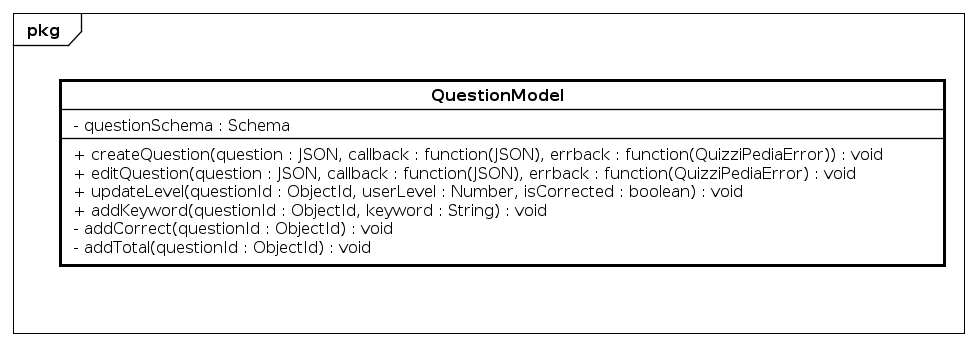
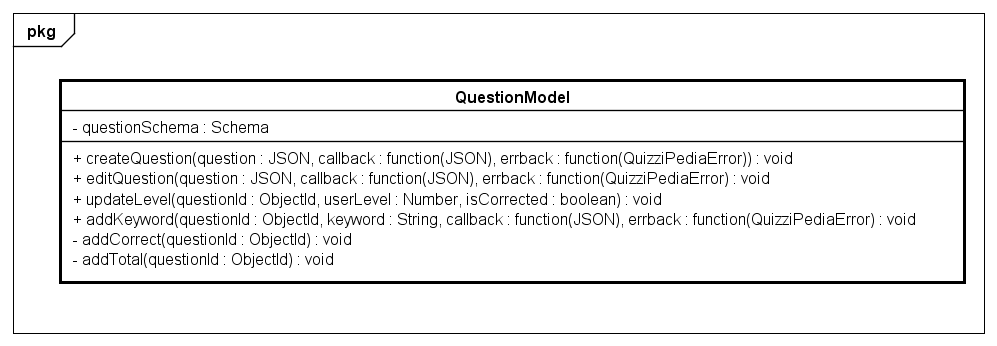
Stesura QuizziPedia::Back-End::App::Models::QuestionModel
Aggiornato UML relativo.
Aggiunto parametro callback: function(JSON) e errback:
function(QuizziPediaError) nel metodo addKeyword, se un keyword esiste
già deve ritornare un errore!

Changed region(s): [[0.0614, 0.0578, 1.0, 0.9538], [0.0, 0.0578, 0.0921, 0.1445]]

diff --git a/RP/DefinizioneDiProdotto/sezioni/Back-End/Models/QuestionModel.tex b/RP/DefinizioneDiProdotto/sezioni/Back-End/Models/QuestionModel.tex
@@ -1,41 +1,104 @@
 \paragraph{QuizziPedia::Back-End::App::Models::QuestionModel}
-\begin{itemize}
-\item \textbf{Descrizione}: Questa classe rappresenta le domande;	
-\item \textbf{Utilizzo}: Viene utilizzata per rappresentare le domande. Si interfaccia alla libreria Mongoose per la creazione dello schema e dei relativi metodi statici o di istanza;
-\item \textbf{Relazione con altra classi}:
+\label{QuizziPedia::Back-End::App::Models::QuestionModel}
+\begin{figure}
+	\centering
+	\includegraphics[scale=0.45]{UML/Package/QuizziPedia_Back-End_App_Models_questionModel.png}
+	\caption{QuizziPedia::Back-End::App::Models::QuestionModel}
+\end{figure}
 	\begin{itemize}
-	\item IN UserModel;
-	\item IN SummaryModel;
-	\item OUT TopicModel;
-	\item OUT QuizModel.
-	\end{itemize}
-\item \textbf{Attributi}:
+		\item \textbf{Descrizione} \\
+		Classe che modella i dati relativi alle domande all'interno dell'applicazione;	
+		\item \textbf{Utilizzo} \\
+		Viene utilizzata per rappresentare le domande. Si interfaccia alla libreria \textit{Mongoose\ped{G}} per la creazione dello schema e dei relativi metodi statici o di istanza;
+		\item \textbf{Relazione con altra classi}:
+			\begin{itemize}
+			\item IN UserModel;
+			Classe che rappresenta tutti gli utenti;
+			\item IN SummaryModel;
+			Classe che rappresenta i riepiloghi dei questionari svolti;
+			\item OUT TopicModel;
+			Classe che rappresenta gli argomenti;
+			\item OUT QuizModel.
+			\end{itemize}
+		\item \textbf{Attributi}:
 	\begin{itemize}
-	\item \texttt{questionSchema: Schema} \\
-	Questo campo dati rappresenta lo schema Mongoose per le domande e prevede i 					seguenti attributi:
+		\item \texttt{questionSchema: Schema} \\
+		Questo campo dati rappresenta lo schema Mongoose per le domande e prevede i seguenti attributi:
 		\begin{itemize}
-		\item \texttt{author} di tipo \texttt{ObjectId}, rappresenta il riferimento 					all'identificativo nel database dell'utente che ha creato la domanda;
-		\item \texttt{type} di tipo \texttt{String}, rappresenta la tipologia di domanda;
-		\item \texttt{questionText} di tipo \texttt{String}, rappresenta il testo della 				domanda; 
-		\item \texttt{image} di tipo \texttt{String}, rappresenta l'URL dell'immagine 				associata al testo della domanda;
-		\item \texttt{options1} di tipo \texttt{Array}, contiene oggetti di tipo String e 			rappresenta informazioni diverse in base alla tipologia della	 domanda;
-		\item \texttt{options2} di tipo \texttt{Array}, contiene oggetti di tipo String e 			rappresenta informazioni diverse in base alla tipologia della	 domanda;
-		\item \texttt{level} di tipo \texttt{Number}, rappresenta la difficoltà della 				domanda;
-		\item \texttt{totalAnswers} di tipo \texttt{Number}, rappresenta le risposte 					totali che tutti gli utenti hanno dato alla domanda;
-		\item \texttt{correctAnswers} di tipo \texttt{Number}, rappresenta quante risposte 		corrette hanno dato gli utenti che hanno risposto alla domanda.
+			\item \texttt{author} di tipo \texttt{ObjectId}, rappresenta il riferimento all'identificativo nel database dell'utente che ha creato la domanda;
+			\item \texttt{type} di tipo \texttt{String}, rappresenta la tipologia di domanda;
+			\item \texttt{questionText} di tipo \texttt{String}, rappresenta il testo della domanda; 
+			\item \texttt{image} di tipo \texttt{String}, rappresenta l'URL dell'immagine associata al testo della domanda;
+			\item \texttt{options1} di tipo \texttt{Array}, contiene oggetti di tipo String e rappresenta informazioni diverse in base alla tipologia della	 domanda;
+			\item \texttt{options2} di tipo \texttt{Array}, contiene oggetti di tipo String e rappresenta informazioni diverse in base alla tipologia della	 domanda;
+			\item \texttt{level} di tipo \texttt{Number}, rappresenta la difficoltà della domanda;
+			\item \texttt{totalAnswers} di tipo \texttt{Number}, rappresenta le risposte totali che tutti gli utenti hanno dato alla domanda;
+			\item \texttt{correctAnswers} di tipo \texttt{Number}, rappresenta quante risposte corrette hanno dato gli utenti che hanno risposto alla domanda.
 		\end{itemize}
 	\end{itemize}
 \item \textbf{Metodi}:
 	\begin{itemize}
-	\item \texttt{+ createQuestion(question: JSON, callback: function(JSON), errback: function(JSON))} \\
-	;   
-	\item \texttt{+ editQuestion(question: JSON, callback: function(JSON), errback: function(JSON))} \\
-	;
-	\item \texttt{+ updateLevel(userLevel: Number, isCorrected: boolean)} \\
-	;  
-	\item \texttt{- addCorrect()} \\
-	;
-	\item \texttt{- addTotal()} \\
-	.
+	\item \texttt{+ createQuestion(question: JSON, callback: function(JSON), errback: function(QuizziPediaError))} \\
+	Metodo che permette la creazione di una nuova domanda; \\
+		\textbf{Parametri}:
+		\begin{itemize}
+			\item \texttt{question: JSON} \\
+			Rappresenta le informazioni che andranno a comporre la domanda da creare;
+			\item \texttt{callback: function(JSON)} \\
+			Rappresenta la \textit{callback\ped{G}} che verrà eseguita al termine dell'elaborazione nel caso non si verifichino errori durante l'esecuzione;
+			\item \texttt{errback: function(QuizziPediaError)} \\
+			Rappresenta la \textit{callback\ped{G}} che il metodo deve chiamare qualora si verificassero errori durante l'esecuzione del metodo.
+		\end{itemize}   
+	\item \texttt{+ editQuestion(questionID: ObjectID, question: JSON, callback: function(JSON), errback: function(QuizziPediaError))} \\
+	Metodo che permette di modificare una domanda già esistente; \\
+		\textbf{Parametri}:
+		\begin{itemize}
+			\item \texttt{questionID: ObjectID} \\
+			Indica l'identificativo della domanda da modificare;
+			\item \texttt{question : JSON} \\
+			Rappresenta le nuove informazioni che andranno a modificare le informazioni precedenti di una specifica domanda;
+			\item \texttt{callback: function(JSON)} \\
+			Rappresenta la \textit{callback\ped{G}} che verrà eseguita al termine dell'elaborazione del metodo in caso non si verifichino errori durante l'esecuzione;
+			\item \texttt{errback: function(QuizziPediaError)} \\
+			Rappresenta la \textit{callback\ped{G}} che il metodo deve chiamare qualora si verificassero errori durante l'esecuzione del metodo.
+		\end{itemize}
+	\item \texttt{+ addKeyword(questionID: ObjectID, keyword: String, callback: function(JSON), errback: function(QuizziPediaError))} \\
+	Metodo che permette di aggiungere delle parole chiave ad una specifica domanda; \\
+		\textbf{Parametri}:
+			 \begin{itemize}
+			 	\item \texttt{questionID: ObjectID} \\
+			 	Indica l'identificativo della domanda a cui si devono inserire le parole chiave;
+			 	\item \texttt{keyword: String} \\
+			 	Rappresenta la parola chiave da inserire
+			 	\item \texttt{callback: function(JSON)} \\
+			 	Rappresenta la \textit{callback\ped{G}} che verrà eseguita al termine dell'elaborazione del metodo in caso si verifichino errori durante l'esecuzione;
+			 	\item \texttt{errback: function(QuizziPediaError)} \\
+			 	Rappresenta la \textit{callback\ped{G}} che il metodo deve chiamare qualora si verificassero errori durante l'esecuzione del metodo.
+			 \end{itemize}
+	\item \texttt{+ updateLevel(questionID: ObjectID, userLevel: Number, isCorrected: boolean)} \\
+	Metodo che permette di aggiornare il livello di difficoltà della domanda, questo metodo è chiamato ogni qualvolta un utente risponde ad una domanda durante un allenamento;
+		\textbf{Parametri}:
+			\begin{itemize}
+				\item \texttt{questionID: ObjectID} \\
+				Indica l'identificativo della domanda a cui si devono aggiornare le informazioni che riguardano la difficoltà;
+				\item \texttt{userLevel: Number} \\
+				Indica, con un numero compreso tra 1 e 1000, l'abilità dell'utente che ha risposto alla domanda;
+				\item \texttt{isCorrected: boolean} \\
+				Indica se l'utente che ha risposto alla domanda ha risposto correttamente.
+			\end{itemize}  
+	\item \texttt{- addCorrect(questionID : ObjectID)} \\
+	Metodo che permette di incrementare il contatore di risposte corrette di una determinata domanda; \\
+		\textbf{Parametri}:
+			\begin{itemize}
+				\item \texttt{questionID: ObjectID} \\
+				Indica l'identificativo della domanda a cui si deve incrementare il contatore delle risposte date correttamente.
+			\end{itemize}
+	\item \texttt{- addTotal(questionID : ObjectID)} \\
+	Metodo che permette di incrementare il contatore delle risposte date di una determinata domanda.
+		\textbf{Parametri}:
+			\begin{itemize}
+				\item \texttt{questionID: ObjectID} \\
+				Indica l'identificativo della domanda a cui si deve incrementare il contatore complessivo delle risposte date. 
+			\end{itemize}
 	\end{itemize}
 \end{itemize}
